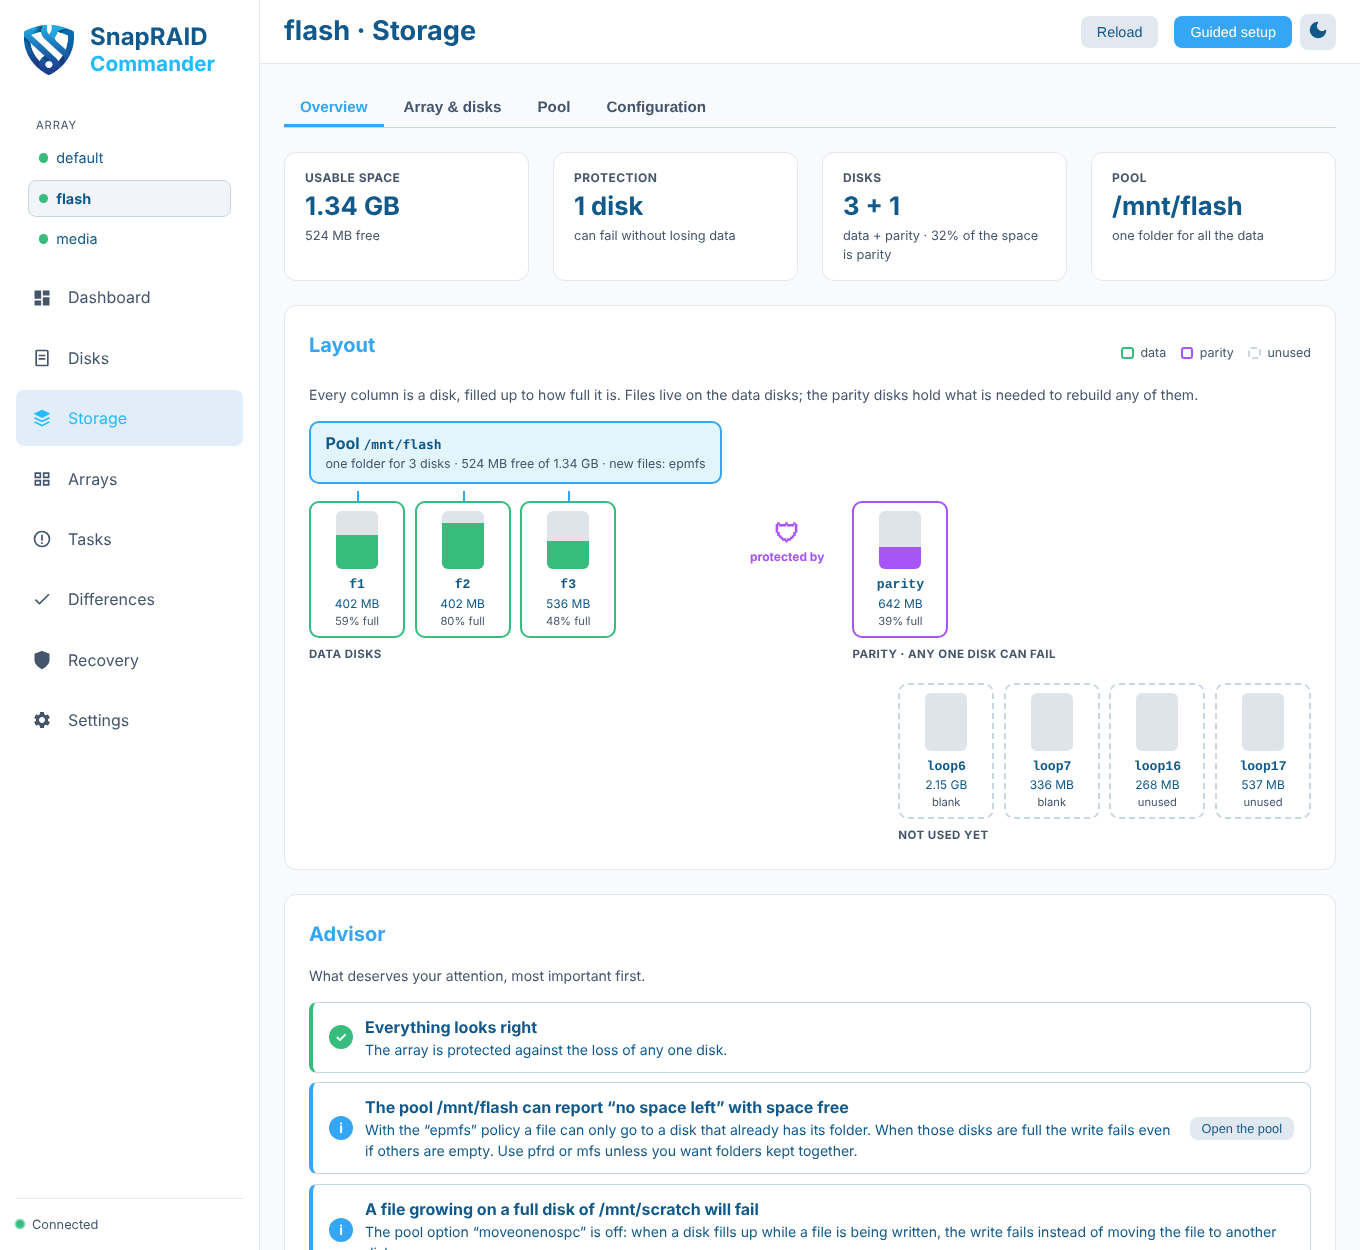
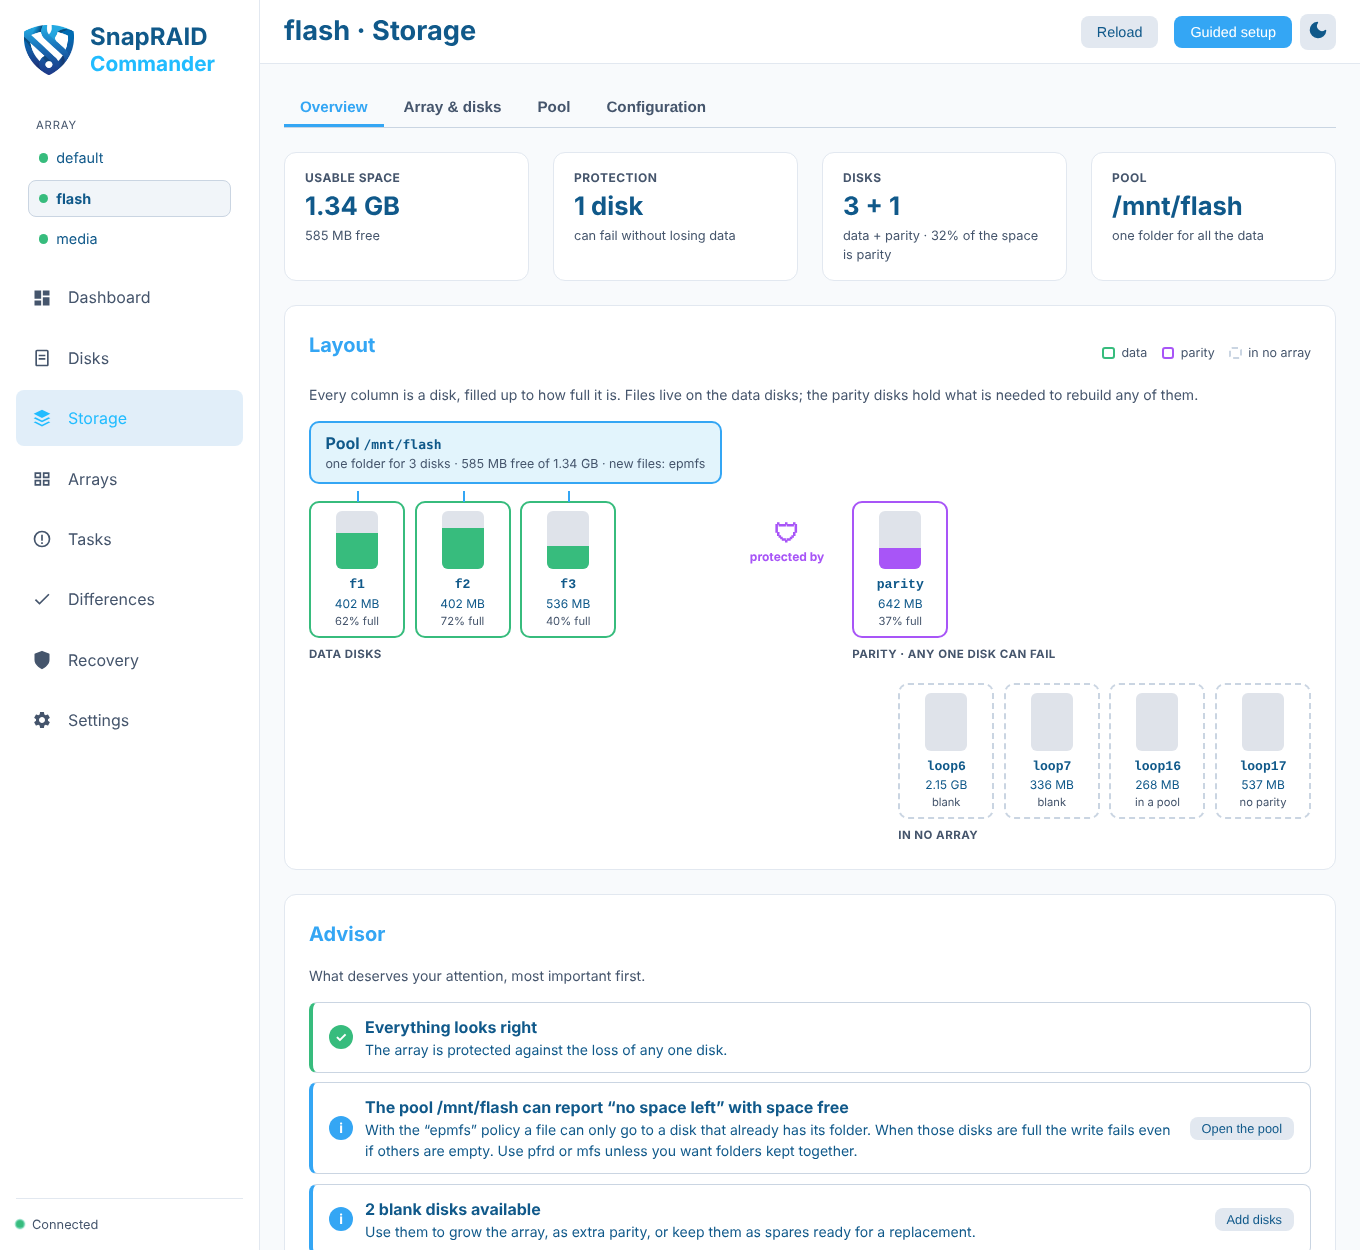
Take again the pictures the last two changes of the Storage page touch
Claude-Session: https://claude.ai/code/session_01LfE4SSXGi9RqWBaurXjFXA

diff --git a/README.md b/README.md
@@ -37,7 +37,7 @@ of a few hundred MB, described to SnapRAID and to the UI as the disks of the tab
 
 | | |
 |---|---|
-| **Arrays**: three arrays in one daemon, the four pools, and what protects every disk<br>[![Arrays](docs/screenshots/arrays.png)](docs/screenshots/arrays.png) | **Overview**: the default array, its pool and the advisor; the spares and the disks outside the array are on the right<br>[![Overview](docs/screenshots/overview.png)](docs/screenshots/overview.png) |
+| **Arrays**: three arrays in one daemon, the four pools, and what protects every disk<br>[![Arrays](docs/screenshots/arrays.png)](docs/screenshots/arrays.png) | **Overview**: the default array, its pool and the advisor; the blank spares and the disks that are in no array are on the right<br>[![Overview](docs/screenshots/overview.png)](docs/screenshots/overview.png) |
 | **Array & disks**: every disk the machine sees, with model, serial, kind, size and filesystem<br>[![Array & disks](docs/screenshots/array-and-disks.png)](docs/screenshots/array-and-disks.png) | **Kinds of disk**: HDD, SAS and SSD in one array, and two disks outside it that are watched all the same (`extra`)<br>[![Kinds of disk](docs/screenshots/showcase-disks.png)](docs/screenshots/showcase-disks.png) |
 | **An array of flash disks**: NVMe and SSD, with their wear in place of the failure probability<br>[![An array of flash disks](docs/screenshots/showcase-disks-flash.png)](docs/screenshots/showcase-disks-flash.png) | **A split parity**: one parity level over two disks: the first is full, the second holds the rest<br>[![A split parity](docs/screenshots/showcase-split-parity.png)](docs/screenshots/showcase-split-parity.png) |
 | **Storage of another array**: the sidebar chooses the array; this one places new files next to their folder, and the advisor says what that means<br>[![Storage of another array](docs/screenshots/arrays-storage.png)](docs/screenshots/arrays-storage.png) | **Pool**: the pools of the machine with branches, protection, placement policy and balance<br>[![Pool](docs/screenshots/pool.png)](docs/screenshots/pool.png) |
@@ -58,7 +58,7 @@ started with `LAB_PRESET=blank` (`shots-blank.json`).
 | What | Version |
 |---|---|
 | SnapRAID engine | release 15.1, unmodified, commit `4054832` (checked by the `Dockerfile`) |
-| SnapRAID Daemon | the checkout next to this folder; all the tests last run with `storage` at `98714a1` |
+| SnapRAID Daemon | the checkout next to this folder; all the tests last run with `storage` at `98714a1`, the pictures taken with `7250acd` |
 | mergerfs, xfsprogs, btrfs-progs | the ones of Debian 12 |
 
 ## Start
